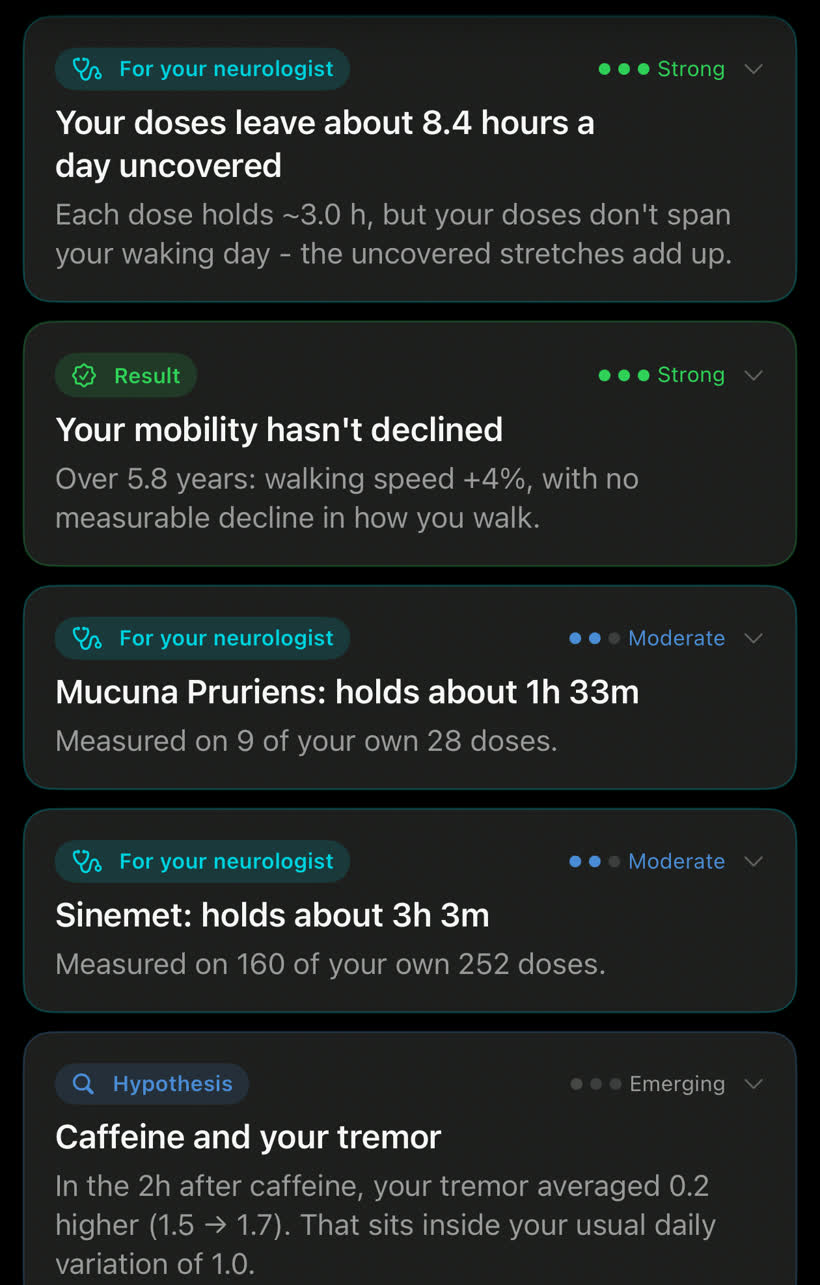
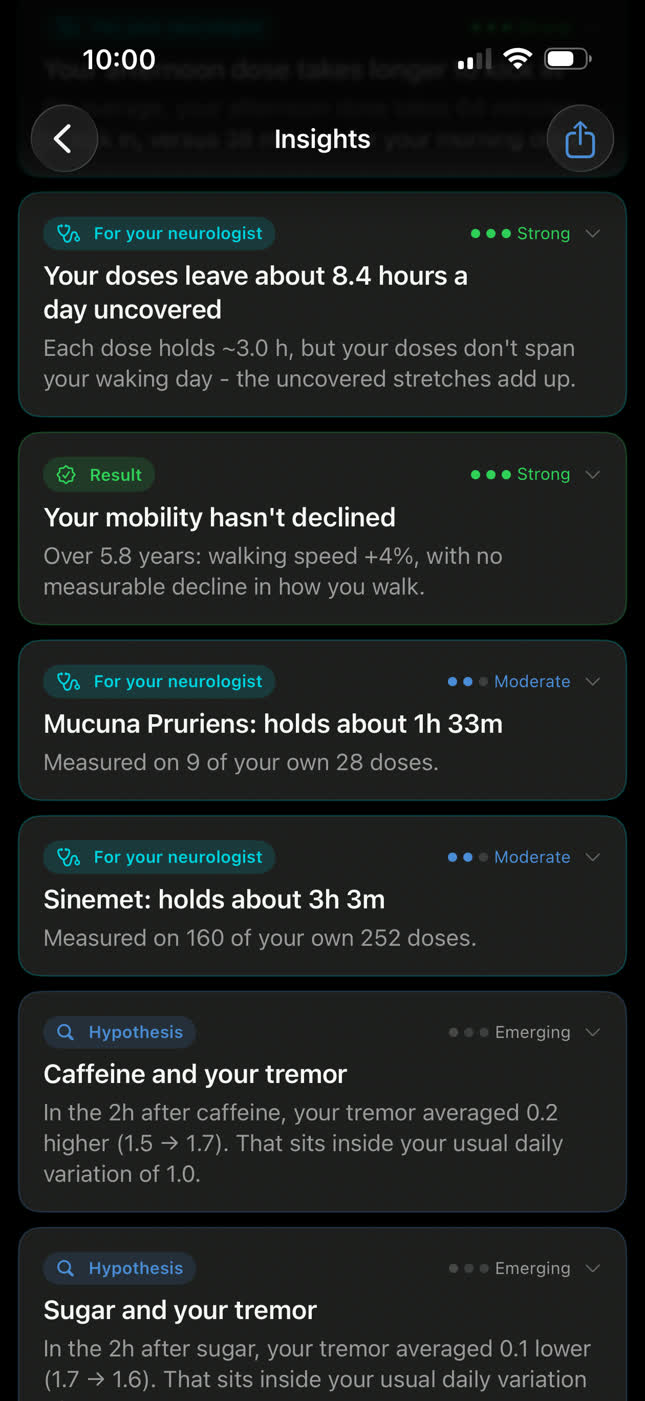
Website: full screenshots in real bezels, no invented containers
Reverts three rounds of my own over-correction. The site already had exactly
one working pattern for app imagery - a .phone bezel around a full-screen
capture - and the voice strip proves it renders correctly. Every problem came
from deviating: a 1.30 crop in a bezel built for 2.17, crops ending mid-card,
then bordered wrappers around content that carries its own card edges, then
those same crops blown up to double life size once the wrapper came off.

insights-list, barcode-logfood and symptom-log are now full frames at 645x1401,
matching voice-menu.jpg at 645x1400, inside the existing .phone class. The two
logging cards are the same component at the same 208px as the voice steps
directly above them; the insights shot matches the hero at 285px.

Deletes .door-shot and .insight-shot. Nothing bespoke remains.

Also records three detector waivers in .impeccable/config.json: Geist (brand
face per docs/brand-guide.md), and side-tab + dark-glow scoped to index.html
(a blockquote rule and the phone-mockup glow).

diff --git a/website/index.html b/website/index.html
@@ -484,11 +484,7 @@
             gap: 64px;
             align-items: center;
         }
-        /* A crop sits flat. Wrapping it in a bordered box frames content that
-           already carries its own card edges, and the outer rounding then reads
-           as a broken device bezel. */
-        .insight-shot { width: 360px; }
-        .insight-shot img { width: 100%; display: block; }
+        .insight-lede .phone { width: 285px; }
         .insight-points { display: flex; flex-direction: column; gap: 26px; }
         .ipoint strong {
             display: block; font-size: 15.5px; font-weight: 600;
@@ -497,7 +493,6 @@
         .ipoint span { font-size: 14.5px; color: var(--text-2); line-height: 1.65; font-weight: 380; }
         @media (max-width: 900px) {
             .insight-lede { grid-template-columns: 1fr; gap: 40px; justify-items: center; }
-            .insight-shot { width: 100%; max-width: 340px; }
             .insight-points { max-width: 520px; }
         }
 
@@ -682,24 +677,27 @@
             .voice-strip { grid-template-columns: 1fr; max-width: 320px; margin: 0 auto; gap: 40px; }
         }
 
-        /* ── The other two capture doors: scan, and symptom ── */
+        /* ── The other two capture doors: scan, and symptom ──
+           Same grammar as .voice-step above: a real bezel around a full screen,
+           caption beside it. No new container. */
         .doors {
             display: grid;
             grid-template-columns: 1fr 1fr;
-            gap: 20px;
-            margin-top: 52px;
+            gap: 44px 40px;
+            margin-top: 56px;
         }
         .door {
-            display: flex;
-            flex-direction: column;
-            gap: 22px;
+            display: grid;
+            grid-template-columns: 208px 1fr;
+            gap: 28px;
+            align-items: center;
         }
-        .door-shot { width: 100%; }
-        .door-shot img { width: 100%; display: block; }
+        .door .phone { width: 208px; }
         .door-copy strong { display: block; font-size: 15.5px; font-weight: 600; color: var(--text-1); margin-bottom: 7px; }
         .door-copy p { font-size: 14px; color: var(--text-2); line-height: 1.65; }
         .door-copy em { color: var(--text-1); font-style: normal; font-weight: 500; }
-        @media (max-width: 760px) { .doors { grid-template-columns: 1fr; max-width: 380px; margin-left: auto; margin-right: auto; } }
+        @media (max-width: 1024px) { .doors { grid-template-columns: 1fr; max-width: 560px; margin-left: auto; margin-right: auto; } }
+        @media (max-width: 520px) { .door { grid-template-columns: 1fr; gap: 18px; justify-items: center; text-align: center; } }
 
         /* ── Watch lede ── */
         .watch-lede {
@@ -1145,14 +1143,14 @@
         <!-- The other two doors: scan a package, or log a symptom -->
         <div class="doors">
             <div class="door">
-                <div class="door-shot"><img src="images/barcode-logfood.jpg" alt="Kampa's Log food screen with the product name filled in from a scan and the note 'Scanned - recording: Protein, Sugar, Fat'"></div>
+                <div class="phone"><img src="images/barcode-logfood.jpg" alt="Kampa's Log food screen with the product name filled in from a scan and the note 'Scanned - recording: Protein, Sugar, Fat'"></div>
                 <div class="door-copy">
                     <strong>Anything in a wrapper, scan it</strong>
                     <p>Point the camera at a barcode and the product and its nutrition fill themselves in. Kampa searches 439,082 products in an 11.8 MB file bundled inside the app - <em>no network call, nothing leaves your phone.</em></p>
                 </div>
             </div>
             <div class="door">
-                <div class="door-shot"><img src="images/symptom-log.jpg" alt="Kampa's Log symptom screen: chips for Constipation, Fatigue, Mood and Urinary, a Mild/Moderate/Severe severity control, and a date and time"></div>
+                <div class="phone"><img src="images/symptom-log.jpg" alt="Kampa's Log symptom screen: chips for Constipation, Fatigue, Mood and Urinary, a Mild/Moderate/Severe severity control, and a date and time"></div>
                 <div class="door-copy">
                     <strong>A symptom, in two taps</strong>
                     <p>Constipation, fatigue, mood and urinary symptoms, each with a severity, saved straight to Apple Health and marked on your timeline. Log one when it's present - a normal day needs no entry, so there's no daily checklist to fall behind on.</p>
@@ -1201,8 +1199,9 @@
     <h2 class="section-h">The patterns you'd never spot yourself.</h2>
     <p class="section-p">A single day shows what happened. Across weeks and months, the Insights view surfaces the longer patterns - how your medication really performs, when wearing-off tends to hit, how your walking is trending - each with an honest confidence level, and only when the data actually supports it.</p>
     <div class="insight-lede">
-        <div class="insight-shot">
-            <img src="images/insights-list.jpg" alt="Kampa's Insights list: dose coverage and mobility findings marked Strong, separate Moderate cards measuring Mucuna Pruriens and Sinemet, and an Emerging card reporting that caffeine sits inside normal daily variation">
+        <div class="phone-wrap">
+            <div class="phone"><img src="images/insights-list.jpg" alt="Kampa's Insights list: dose coverage and mobility findings marked Strong, separate Moderate cards measuring Mucuna Pruriens and Sinemet, and an Emerging card reporting that caffeine sits inside normal daily variation"></div>
+            <div class="phone-glow"></div>
         </div>
         <div class="insight-points">
             <div class="ipoint">
